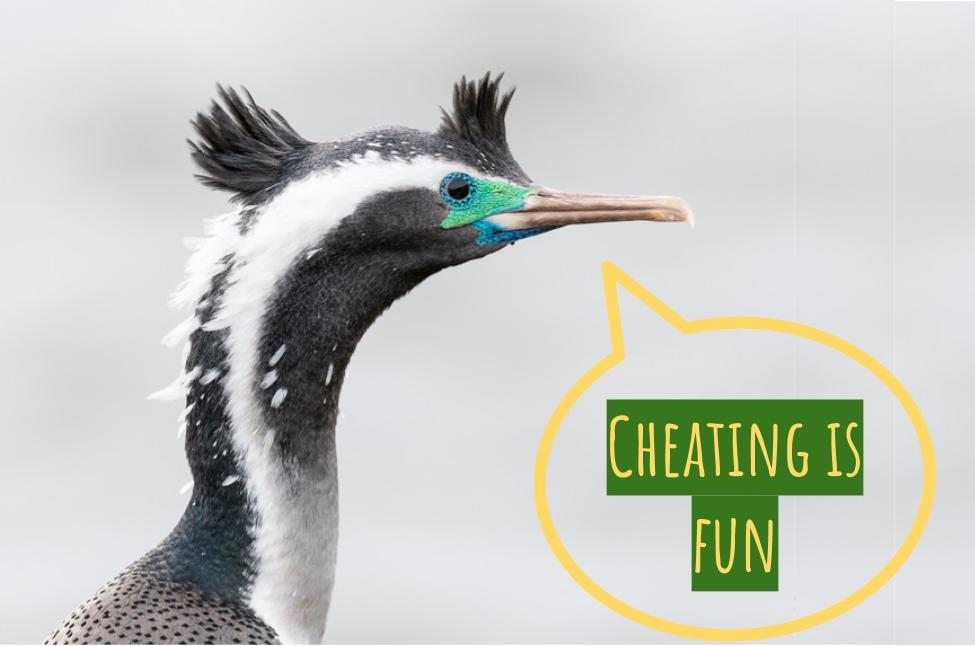
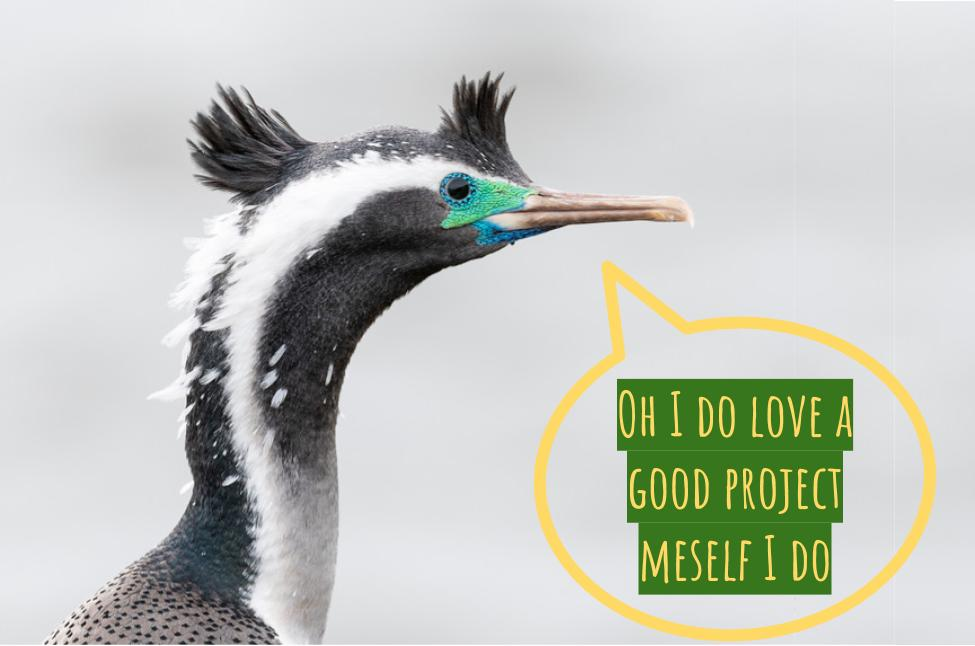
Change cheatsheet page to projects and add some projects

Changed region(s): [[0.6154, 0.5882, 0.8923, 0.9288]]

diff --git a/projects.html b/projects.html
@@ -1,0 +1,65 @@
+<!DOCTYPE html>
+<html lang="en">
+    <head lang="en">
+      <meta charset="UTF-8">
+      <meta name="viewport" content="width=device-width, initial-scale=1, user-scalable=0, maximum-scale=1, minimum-scale=1">
+      <meta http-equiv="X-UA-Compatible" content="ie=edge">
+      <link href="styles/main.css" rel="stylesheet" type="text/css" />
+      <link href="https://fonts.googleapis.com/css?family=Amatic+SC|Noto+Sans|Roboto+Mono&display=swap" rel="stylesheet">
+      <title>Projects</title>
+
+
+      <div id="navbar">
+          <a id="navbar-left" href="index.html">Home</a>
+          <a id="navbar-left" href="blog.html">Blog Posts</a>
+      
+          <h4 class="kiaOraHeading">Kia ora!</h4>
+      
+          <a id="navbar-right" href="projects.html">Projects</a>
+          <a id="navbar-right" href="about.html">About</a>
+      </div>
+      <div class="dropdown">
+        <button class="dropbtn">Kia ora! 
+        </button>
+        <div class="dropdown-content">
+          <a href="index.html">Home</a>
+          <a href="blog.html">Blog Posts</a>
+          <a href="projects.html">Cheat Sheet</a>
+          <a href="about.html">About</a>
+        </div>
+      </div>
+    </head>
+
+
+
+
+<body>
+  <div>
+    <figure>
+      <img class="shag-img" src="images/Spotted-shag.jpg" alt="Image of a spotted shag saying Cheating is fun." title="Spotted Shag">
+    </figure>
+  </div>
+  <div class="greenBoxP">
+    <h2>Here are some projects that I have been working on while learning HTML, CSS and Javascript.</h2>
+  </div>
+  <div class="minesweeperBox">
+    <p>
+      <a href="">Minesweeper Challenge</a>
+    </p>
+  </div>
+  <div class="calculatorBox">
+    <p>
+      <a href="">Calculator challenge</a>
+    </p>
+  </div>
+</body>
+
+
+
+
+<footer>
+    <p id="footerP">Made by Freya Davies</p>
+    <p id="footerP">I would love to hear any feedback<br>or tips you might have. <br>Please get in touch:</p>
+</footer>
+
+</html>

diff --git a/styles/main.css b/styles/main.css
@@ -163,6 +163,7 @@ a:link {
 
 a:visited {
   text-decoration: none;
+  color: inherit;
 }
 
 
@@ -326,9 +327,8 @@ ul, .lists {
 
 
 
-  /* Cheat sheet page */ 
   /* Fix boxes, want then next to each other. */
-.cheat-img {  
+/* .cheat-img {  
   float: left;
   width: 480px;
   height: 300px;
@@ -368,6 +368,39 @@ table {
 .tagLine {
   background-color: sandyBrown;
   font-family: 'Roboto Mono', monospace;
+} */
+
+
+
+
+/* projects page */
+.minesweeperBox, .calculatorBox {
+  margin-left: 10%;
+  margin-right: 10%;
+  margin-top: 5%;
+  margin-bottom: 5%;
+  padding: 1% 5% 1% 5%;
+}
+
+.minesweeperBox {
+  background-image: url("../images/minesweeperBackground.jpg");
+}
+
+.calculatorBox {
+  background-color: darkGray;
+}
+
+.minesweeperBox p {
+  color: black;
+  background-color: rgb(219, 230, 0);
+  padding: 1% 5% 1% 5%;
+
+}
+
+.calculatorBox p{
+  color: green;
+  background-color: indigo;
+  padding: 1% 5% 1% 5%;
 }
 
 
@@ -384,21 +417,18 @@ table {
   border-width: 30px;
 }
 
-.greenBoxP {
-  margin-left: 10%;
-  margin-right: 10%;
-  padding: 1% 5% 1% 5%;
-  background-color: rgba(0, 100, 0, 0.514);
-}
-
 .dashedBorder {
   border-color: green;
   border-style: dashed;
   border-width: 10px;
 }
 
-
-
+.greenBoxP {
+  margin-left: 10%;
+  margin-right: 10%;
+  padding: 1% 5% 1% 5%;
+  background-color: rgba(0, 100, 0, 0.514);
+}
 
 
 

diff --git a/blog.html b/blog.html
@@ -15,7 +15,7 @@
     
         <h4 class="kiaOraHeading">Kia ora!</h4>
     
-        <a id="navbar-right" href="cheatSheet.html">Cheat Sheet</a>
+        <a id="navbar-right" href="projects.html">Projects</a>
         <a id="navbar-right" href="about.html">About</a>
     </div>
     <div class="dropdown">
@@ -57,7 +57,7 @@
     
         <h4 class="kiaOraHeading">Kia ora!</h4>
     
-        <a id="navbar-right" href="../cheatSheet.html">Cheat Sheet</a>
+        <a id="navbar-right" href="../projects.html">Projects</a>
         <a id="navbar-right" href="../about.html">About</a>
     </div>
     <div class="dropdown">
@@ -184,7 +184,7 @@
             </div>
         </a>
         <!-- Blog post 9 -->
-        <a href="blog/sprint3-technical.html" style="visibility: hidden;">
+        <a href="blog/" style="visibility: hidden;">
             <div class="oddBlogBox">
                 <h6 id="oddBlogDate"></h6>
                 <h1 class="smallHeadingFont"></h1>

diff --git a/blog/sprint1-cultural.html b/blog/sprint1-cultural.html
@@ -15,7 +15,7 @@
     
         <h4 class="kiaOraHeading">Kia ora!</h4>
     
-        <a id="navbar-right" href="../cheatSheet.html">Cheat Sheet</a>
+        <a id="navbar-right" href="../projects.html">Projects</a>
         <a id="navbar-right" href="../about.html">About</a>
     </div>
     <div class="dropdown">
@@ -24,7 +24,7 @@
         <div class="dropdown-content">
             <a href="../index.html">Home</a>
             <a href="../blog.html">Blog Posts</a>
-            <a href="../cheatSheet.html">Cheat Sheet</a>
+            <a href="../projects.html">Projects</a>
             <a href="../about.html">About</a>
         </div>
     </div>

diff --git a/blog/sprint2-cultural.html b/blog/sprint2-cultural.html
@@ -15,7 +15,7 @@
     
         <h4 class="kiaOraHeading">Kia ora!</h4>
     
-        <a id="navbar-right" href="../cheatSheet.html">Cheat Sheet</a>
+        <a id="navbar-right" href="../projects.html">Projects</a>
         <a id="navbar-right" href="../about.html">About</a>
     </div>
     <div class="dropdown">
@@ -24,7 +24,7 @@
         <div class="dropdown-content">
             <a href="../index.html">Home</a>
             <a href="../blog.html">Blog Posts</a>
-            <a href="../cheatSheet.html">Cheat Sheet</a>
+            <a href="../projects.html">Projects</a>
             <a href="../about.html">About</a>
         </div>
     </div>

diff --git a/blog/sprint2_technical.html b/blog/sprint2_technical.html
@@ -15,7 +15,7 @@
     
         <h4 class="kiaOraHeading">Kia ora!</h4>
     
-        <a id="navbar-right" href="../cheatSheet.html">Cheat Sheet</a>
+        <a id="navbar-right" href="../projects.html">Projects</a>
         <a id="navbar-right" href="../about.html">About</a>
     </div>
     <div class="dropdown">
@@ -24,7 +24,7 @@
         <div class="dropdown-content">
             <a href="../index.html">Home</a>
             <a href="../blog.html">Blog Posts</a>
-            <a href="../cheatSheet.html">Cheat Sheet</a>
+            <a href="../projects.html">Projects</a>
             <a href="../about.html">About</a>
         </div>
     </div>

diff --git a/blog/sprint3-cultural.html b/blog/sprint3-cultural.html
@@ -15,7 +15,7 @@
     
         <h4 class="kiaOraHeading">Kia ora!</h4>
     
-        <a id="navbar-right" href="../cheatSheet.html">Cheat Sheet</a>
+        <a id="navbar-right" href="../projects.html">Projects</a>
         <a id="navbar-right" href="../about.html">About</a>
     </div>
     <div class="dropdown">
@@ -24,7 +24,7 @@
         <div class="dropdown-content">
             <a href="../index.html">Home</a>
             <a href="../blog.html">Blog Posts</a>
-            <a href="../cheatSheet.html">Cheat Sheet</a>
+            <a href="../projects.html">Projects</a>
             <a href="../about.html">About</a>
         </div>
     </div>

diff --git a/blog/sprint3-technical.html b/blog/sprint3-technical.html
@@ -15,7 +15,7 @@
     
         <h4 class="kiaOraHeading">Kia ora!</h4>
     
-        <a id="navbar-right" href="../cheatSheet.html">Cheat Sheet</a>
+        <a id="navbar-right" href="../projects.html">Projects</a>
         <a id="navbar-right" href="../about.html">About</a>
     </div>
     <div class="dropdown">
@@ -24,7 +24,7 @@
         <div class="dropdown-content">
             <a href="../index.html">Home</a>
             <a href="../blog.html">Blog Posts</a>
-            <a href="../cheatSheet.html">Cheat Sheet</a>
+            <a href="../projects.html">Projects</a>
             <a href="../about.html">About</a>
         </div>
     </div>

diff --git a/blog/sprint4-cultural.html b/blog/sprint4-cultural.html
@@ -15,7 +15,7 @@
     
         <h4 class="kiaOraHeading">Kia ora!</h4>
     
-        <a id="navbar-right" href="../cheatSheet.html">Cheat Sheet</a>
+        <a id="navbar-right" href="../projects.html">Projects</a>
         <a id="navbar-right" href="../about.html">About</a>
     </div>
     <div class="dropdown">
@@ -24,7 +24,7 @@
         <div class="dropdown-content">
             <a href="../index.html">Home</a>
             <a href="../blog.html">Blog Posts</a>
-            <a href="../cheatSheet.html">Cheat Sheet</a>
+            <a href="../projects.html">Projects</a>
             <a href="../about.html">About</a>
         </div>
     </div>

diff --git a/blog/sprint4_technical.html b/blog/sprint4_technical.html
@@ -15,7 +15,7 @@
     
         <h4 class="kiaOraHeading">Kia ora!</h4>
     
-        <a id="navbar-right" href="../cheatSheet.html">Cheat Sheet</a>
+        <a id="navbar-right" href="../projects.html">Projects</a>
         <a id="navbar-right" href="../about.html">About</a>
     </div>
     <div class="dropdown">
@@ -24,7 +24,7 @@
         <div class="dropdown-content">
             <a href="../index.html">Home</a>
             <a href="../blog.html">Blog Posts</a>
-            <a href="../cheatSheet.html">Cheat Sheet</a>
+            <a href="../projects.html">Projects</a>
             <a href="../about.html">About</a>
         </div>
     </div>

diff --git a/blog/sprint5-cultural.html b/blog/sprint5-cultural.html
@@ -15,7 +15,7 @@
     
         <h4 class="kiaOraHeading">Kia ora!</h4>
     
-        <a id="navbar-right" href="../cheatSheet.html">Cheat Sheet</a>
+        <a id="navbar-right" href="../projects.html">Projects</a>
         <a id="navbar-right" href="../about.html">About</a>
     </div>
     <div class="dropdown">
@@ -24,7 +24,7 @@
         <div class="dropdown-content">
             <a href="../index.html">Home</a>
             <a href="../blog.html">Blog Posts</a>
-            <a href="../cheatSheet.html">Cheat Sheet</a>
+            <a href="../projects.html">Projects</a>
             <a href="../about.html">About</a>
         </div>
     </div>

diff --git a/about.html b/about.html
@@ -18,7 +18,7 @@
 
         <h4 class="kiaOraHeading">Kia ora!</h4>
 
-        <a id="navbar-right" href="cheatSheet.html">Cheat Sheet</a>
+        <a id="navbar-right" href="projects.html">Projects</a>
         <a id="navbar-right" href="about.html">About</a>
     </div>  
     <div class="dropdown">
